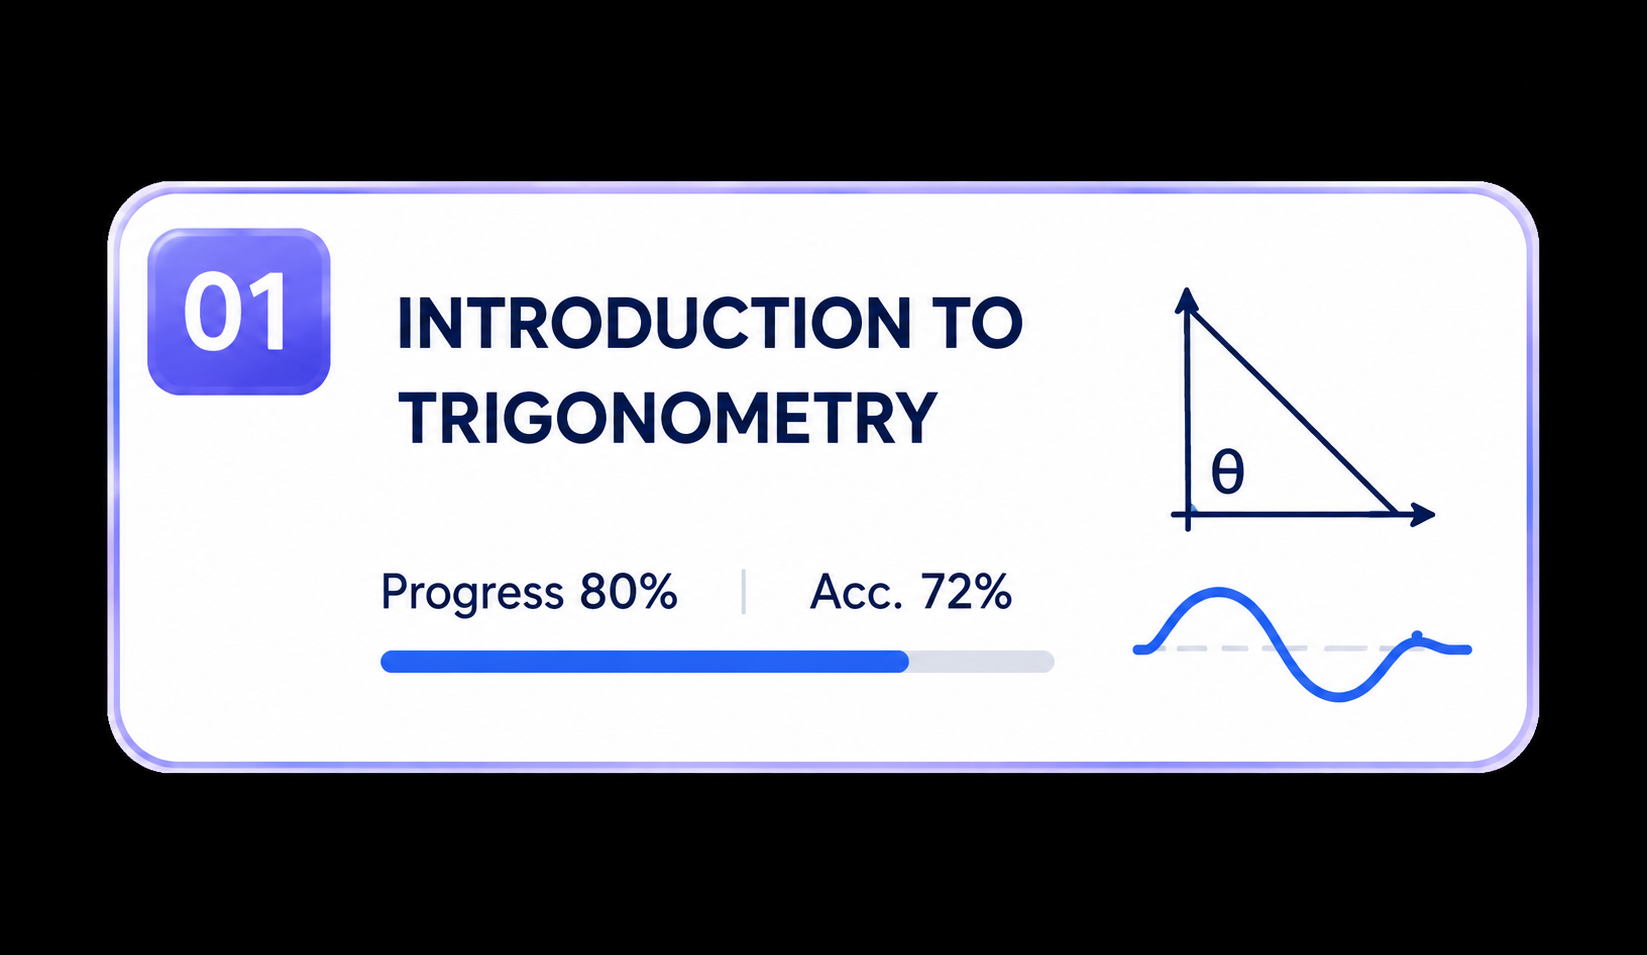
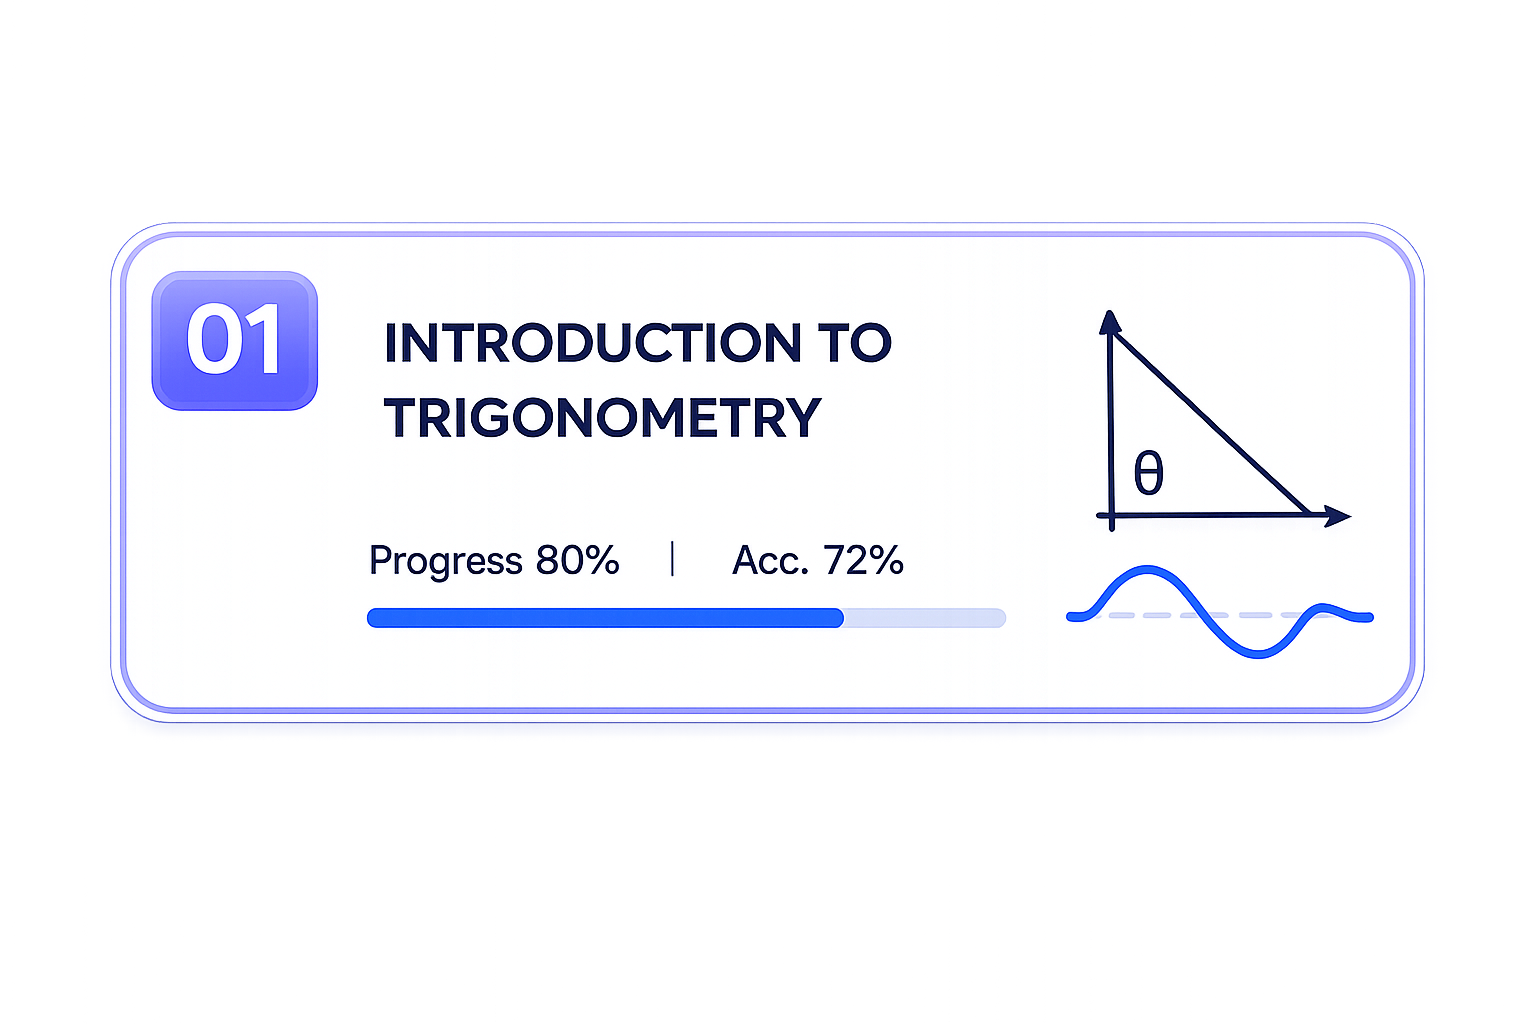
feat: update mathematics chapter tile images and white card wrapper
- Replace mathematics chapter tile images with updated designs
  (trigonometry, real_numbers, quadratic, statistics)
- Wrap math chapter tiles in white card container to match chemistry
  chapter map appearance

diff --git a/components/classroom/MathChapterMapPage.tsx b/components/classroom/MathChapterMapPage.tsx
@@ -271,9 +271,8 @@ export function MathChapterMapPage({ onChapterSelect, onBack }: Props) {
             onClick={() => handleClick(tile.num, tile.locked)}
           >
             {/* White card wrapper — matches chemistry tile appearance */}
-            <div className="relative rounded-2xl overflow-hidden"
+            <div className="relative rounded-xl overflow-hidden"
               style={{
-                background: "rgba(255,255,255,0.92)",
                 backdropFilter: "blur(12px)",
                 boxShadow: tile.locked
                   ? "0 4px 16px rgba(15,28,77,0.12)"
